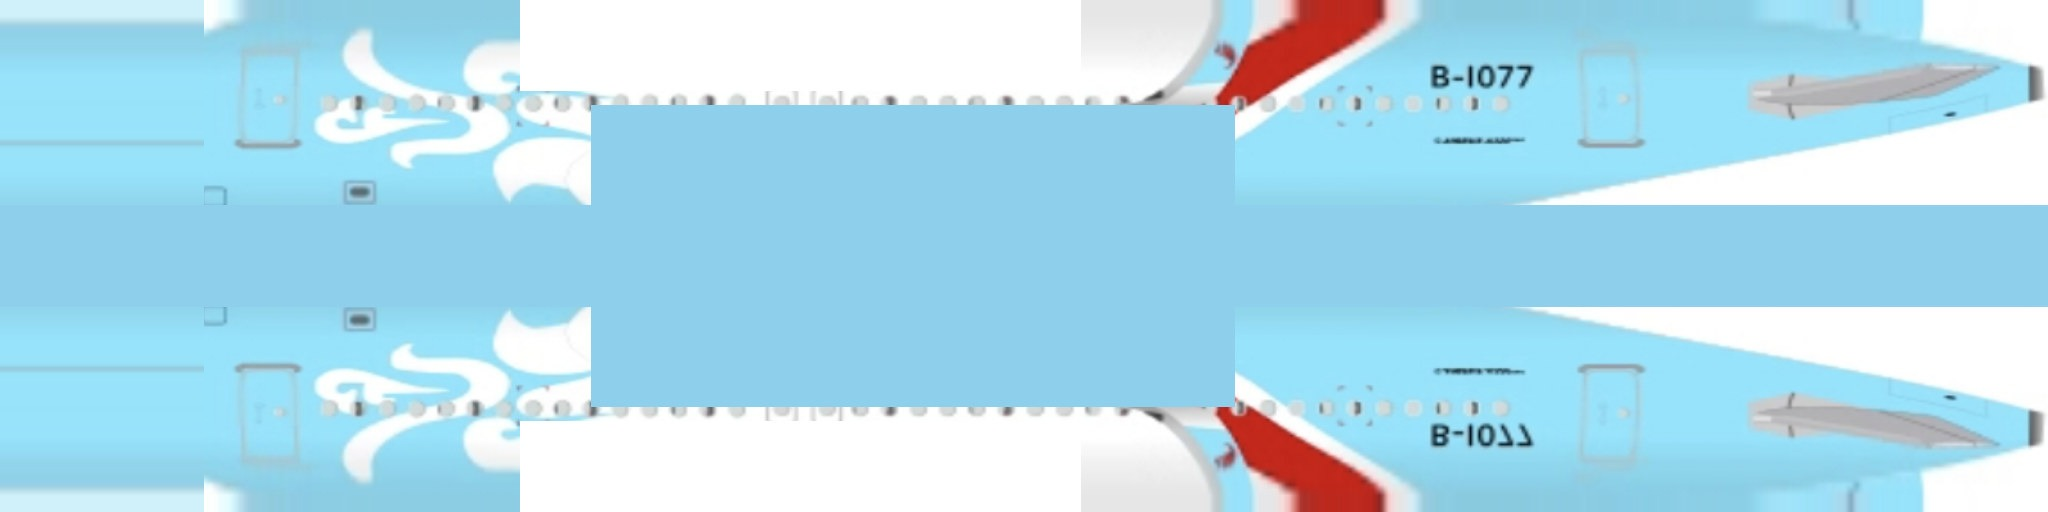
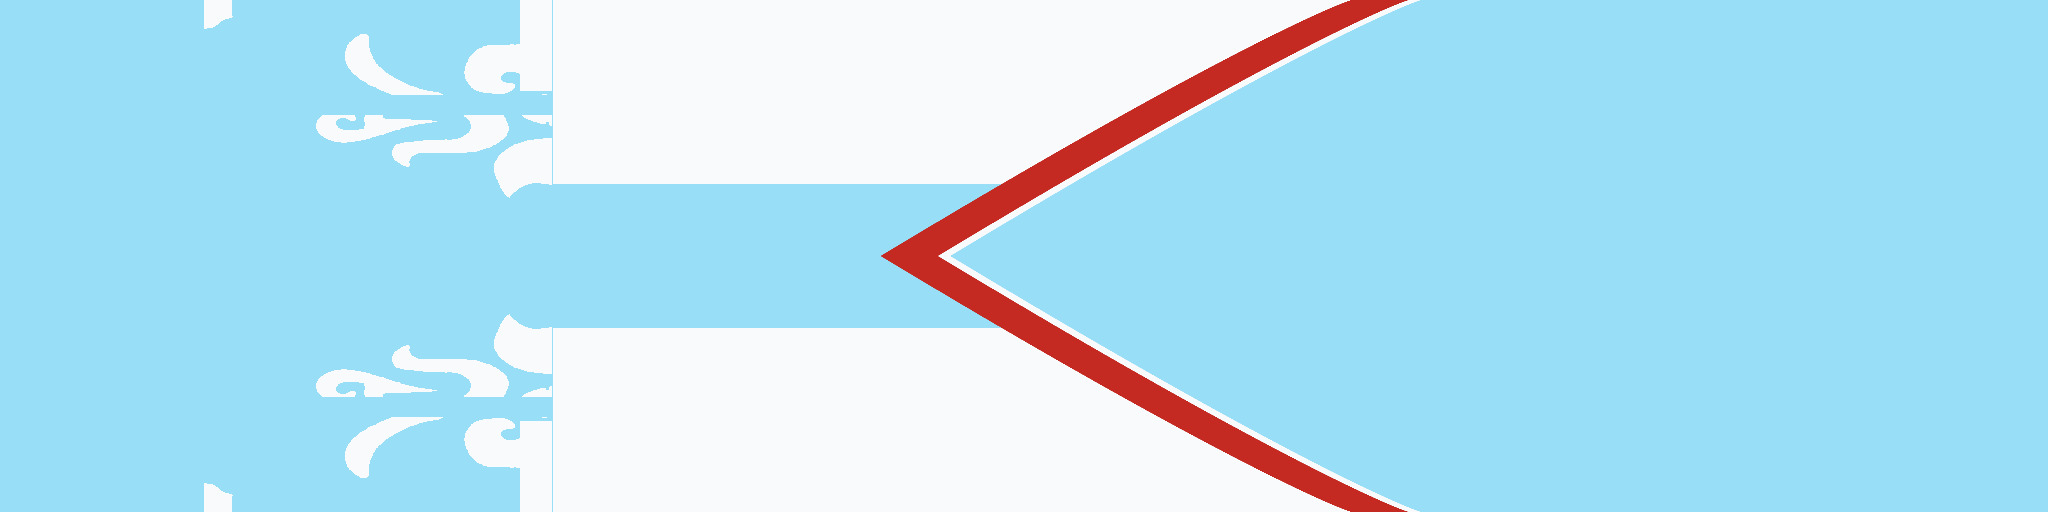
Flight hangar: Kunming and Loong Air fuselages drawn from the livery
A check of all 31 liveries from both sides found two more photo-mapped fuselages with stray blocks:
- Kunming Airlines: mixed red, white and gold blocks and doubled windows; now a red rear body with gold ribbons along its slanted front edge, black italic titles, painted windows
- Loong Air: a flat-blue block, white crown blocks, a red patch from the wing and the stabiliser outline at the tail; now sky blue with the white upper body, the red swoosh and the cloud-dragon art kept from the photo
- tools/livery: ky_kunming.py, gj_loong.py; LIVERIES.md updated; tools/livery/src/ ignored

Claude-Session: https://claude.ai/code/session_01DPTgPf9WxpchQEe6ifFgUC

diff --git a/fleet3d.js b/fleet3d.js
@@ -180,10 +180,10 @@
         P.ribbon(edge, () => 0.5, 0.66, 1.01, '#E41720');
         P.ribbon(u => edge(u) - 0.035 * Math.sin(Math.PI * Math.min(1, s(u) * 1.1)), u => edge(u) + 0.004, 0.66, 1.01, '#F5CC00'); },
       over: P => { P.title('首都航空', 0.225, 0.15, 0.036, { col: '#1a1a1a', w: 600, cjk: 1, sp: 0.1, anchor: 'end' }); P.title('Capital Airlines', 0.285, 0.15, 0.036, { col: '#1a1a1a', i: 1, w: 700 }); } },
-    KY: { img: 'KY', overOnArt: true, name: 'Kunming Airlines', zh: '昆明航空', belly: '#e9ebee', engine: W, lip: '#c9d0d8', winglet: '#cd1c24', tail: 'ky',
+    KY: { img: 'KY', overOnArt: true, winOnArt: true, name: 'Kunming Airlines', zh: '昆明航空', belly: '#e9ebee', engine: W, lip: '#c9d0d8', winglet: '#cd1c24', tail: 'ky',
       under: P => { P.below(0.42, '#e9ebee'); },
-      over: P => { const a = P.title('昆明航空', 0.165, 0.14, 0.046, { col: '#1a2b6d', w: 800, cjk: 1, sp: 0.1 }); P.title('Kunming Airlines', a[1] + 0.02, 0.14, 0.046, { col: '#1a2b6d', w: 800 }); } },
-    GJ: { img: 'GJ', overOnArt: true, name: 'Loong Air', zh: '长龙航空', belly: '#8EC8EB', engine: W, lip: '#c9d0d8', winglet: '#8EC8EB', tail: 'gj',
+      over: P => { const a = P.title('昆明航空', 0.165, 0.14, 0.046, { col: '#141414', w: 800, cjk: 1, sp: 0.1 }); P.title('Kunming Airlines', a[1] + 0.02, 0.14, 0.046, { col: '#141414', w: 800, i: 1 }); } },
+    GJ: { img: 'GJ', overOnArt: true, winOnArt: true, name: 'Loong Air', zh: '长龙航空', belly: '#8EC8EB', engine: W, lip: '#c9d0d8', winglet: '#8EC8EB', tail: 'gj',
       under: P => {   // sky-blue lower fuselage that rises over the rear fuselage into the blue fin
         const s = u => Math.max(0, Math.min(1, (u - 0.55) / 0.45)), vb = u => 0.31 - 0.3 * s(u) ** 1.5 + 0.1 * Math.max(0, (0.1 - u) / 0.1) ** 1.5;
         P.ribbon(vb, () => 0.5, -0.01, 1.01, '#8EC8EB'); },

diff --git a/flights.html b/flights.html
@@ -10,8 +10,8 @@
 <link rel="preconnect" href="https://fonts.googleapis.com">
 <link href="https://fonts.googleapis.com/css2?family=Chakra+Petch:wght@400;500;600;700&family=JetBrains+Mono:wght@400;600&family=Pinyon+Script&family=Source+Sans+3:wght@400;600&display=swap" rel="stylesheet">
 <link rel="stylesheet" href="https://cdnjs.cloudflare.com/ajax/libs/leaflet/1.9.4/leaflet.min.css" crossorigin="">
-<script src="aviation.js?v=202610051900"></script>
-<script src="fleet3d.js?v=202610051900"></script>
+<script src="aviation.js?v=202610052000"></script>
+<script src="fleet3d.js?v=202610052000"></script>
 <style>
   /* Flight log: a private page (same travel password and encrypted file as travel.html) in a "cockpit HUD" look, dark or light (site-wide setting). */
   :root {
@@ -711,7 +711,7 @@
 
 <script src="https://cdnjs.cloudflare.com/ajax/libs/leaflet/1.9.4/leaflet.min.js" crossorigin=""></script>
 <script src="site-lang.js"></script>
-<script src="map-base.js?v=202610051900"></script>
+<script src="map-base.js?v=202610052000"></script>
 <script>
 // ─────────────────────────────────────────────────────────────────────────────
 // Data: the flights live inside travel/travel.enc (AES-256-GCM, key derived from the

diff --git a/tools/livery/gj_loong.py b/tools/livery/gj_loong.py
@@ -1,0 +1,27 @@
+# Loong Air: fuselage rebuilt from the livery (the photo mapping left a flat-blue block, white crown blocks, a stray red
+# patch from the wing and the stabiliser outline at the tail). Sky blue all over; white upper body behind the cloud-dragon
+# art, closed at the back by a red swoosh that runs from the crown down and forward to the wing root; sky blue again behind.
+# The cloud-dragon art near the nose is kept from the old texture (window row cleaned, windows are painted by the model).
+import os, shutil, numpy as np
+from PIL import Image
+OUT = os.path.join(os.path.dirname(__file__), '..', '..', 'liveries') + '/'
+src = OUT + 'GJ.jpg'; bak = os.path.join(os.path.dirname(__file__), 'src', 'GJ.photo.jpg')
+if os.path.exists(bak): old = np.asarray(Image.open(bak).convert('RGB')).astype(np.float32)   # rerun safely from the original photo bake
+else: old = np.asarray(Image.open(src).convert('RGB')).astype(np.float32); os.makedirs(os.path.dirname(bak), exist_ok=True); shutil.copy(src, bak)
+BLUE = np.array([151, 222, 246], np.float32); WHITE = np.array([248, 250, 252], np.float32); RED = np.array([196, 42, 34], np.float32)
+cw, ch, SS = 2048, 512, 3
+U = (np.arange(cw * SS) + 0.5) / (cw * SS); V = (np.arange(ch) + 0.5) / ch; Ug, Vg = np.meshgrid(U, V); Vm = np.where(Vg <= 0.5, Vg, 1 - Vg)
+img = np.tile(BLUE, (ch, cw * SS, 1))
+s = 0.66 - (0.66 - 0.43) * (Vm / 0.5) ** 0.9            # swoosh: crown at u 0.66 down and forward to the wing root
+img[(Ug > 0.27) & (Ug < s) & (Vm < 0.36)] = WHITE        # white upper body between the art and the swoosh
+d = Ug - s
+img[(d >= 0) & (d < 0.028)] = RED
+img[(d >= 0.028) & (d < 0.034)] = WHITE                  # thin white line behind the swoosh
+img = img.reshape(ch, cw, SS, 3).mean(axis=2)
+# cloud-dragon art from the old texture: u 0.08 … 0.27, keep only near-white art pixels
+x0, x1 = int(0.08 * cw), int(0.27 * cw); part = old[:, x0:x1]
+art = (part.min(axis=2) > 215)
+vrow = np.abs(((np.arange(ch) + 0.5) / ch) - 0.205) < 0.02; vrow |= np.abs(((np.arange(ch) + 0.5) / ch) - 0.795) < 0.02
+art[vrow] = False                                        # drop the photo's window row
+img[:, x0:x1][art] = WHITE
+Image.fromarray(img.clip(0, 255).astype(np.uint8)).save(src, quality=92, subsampling=0); print('GJ rebuilt')

diff --git a/tools/livery/ky_kunming.py b/tools/livery/ky_kunming.py
@@ -1,0 +1,19 @@
+# Kunming Airlines: fuselage drawn from the livery (the photo mapping mixed red, white and gold blocks and doubled the windows).
+# White forward; a red rear body whose front edge runs from the crown above the wing down and back to the belly near the tail,
+# with gold ribbons sweeping along that edge. The fin texture (golden peacock) is kept.
+import os, numpy as np
+from PIL import Image
+OUT = os.path.join(os.path.dirname(__file__), '..', '..', 'liveries') + '/'
+WHITE = np.array([248, 249, 251], np.float32); BELLY = np.array([233, 235, 238], np.float32)
+RED = np.array([206, 28, 36], np.float32); GOLD = np.array([224, 178, 92], np.float32)
+cw, ch, SS = 2048, 512, 3
+U = (np.arange(cw * SS) + 0.5) / (cw * SS); V = (np.arange(ch) + 0.5) / ch; Ug, Vg = np.meshgrid(U, V); Vm = np.where(Vg <= 0.5, Vg, 1 - Vg)
+img = np.tile(WHITE, (ch, cw * SS, 1)); img[Vm > 0.42] = BELLY
+e = 0.40 + (0.80 - 0.40) * (Vm / 0.5) ** 0.85          # front edge of the red: crown above the wing → belly near the tail
+d = Ug - e
+for lo, hi, col in ((-0.050, -0.040, GOLD), (-0.030, -0.016, GOLD), (-0.010, -0.004, GOLD)):   # gold ribbons ahead of the red
+    img[(d >= lo) & (d < hi)] = col
+img[d >= 0] = RED
+img[(d >= 0.012) & (d < 0.02)] = GOLD                   # one gold ribbon inside the red
+img = img.reshape(ch, cw, SS, 3).mean(axis=2)
+Image.fromarray(img.clip(0, 255).astype(np.uint8)).save(OUT + 'KY.jpg', quality=92, subsampling=0); print('KY drawn')

diff --git a/tools/livery/LIVERIES.md b/tools/livery/LIVERIES.md
@@ -97,8 +97,8 @@ Fins are quad-warped from a clear tail photo, with the background flattened and 
 | CN | 大新华航空 Grand China | B | B | photo, layout `GCA`; fuselage rebuilt geometrically, photo fin |
 | TV | 西藏航空 Tibet | A | A | `TBA` A320 sheet |
 | JD | 首都航空 Capital | B | B | photo, painted titles and windows |
-| KY | 昆明航空 Kunming | B | B | photo, layout `KUN` |
-| GJ | 长龙航空 Loong Air | B | B | photo, layout `LOONG`; dragon from the tail photo |
+| KY | 昆明航空 Kunming | C | B | fuselage drawn by `ky_kunming.py` (red rear with gold ribbons along its slanted front edge); fin from the photo; black italic titles, painted windows |
+| GJ | 长龙航空 Loong Air | C | B | fuselage rebuilt by `gj_loong.py` (sky blue, white upper body, red swoosh; cloud-dragon art kept from the photo bake, saved as `src/GJ.photo.jpg`); dragon fin from the photo |
 | GT | 桂林航空 Air Guilin | C | C | tail photo + official logo; titles and mark cut from the official artwork |
 | G5 | 华夏航空 China Express | C | C | official logo artwork: dove on the fin and titles; deep-blue fin with light-blue cap |
 | KL | KLM | A | D | `KLM` sheet fuselage; fin painted (`paintTail`), crown and KLM sized to the chord |
